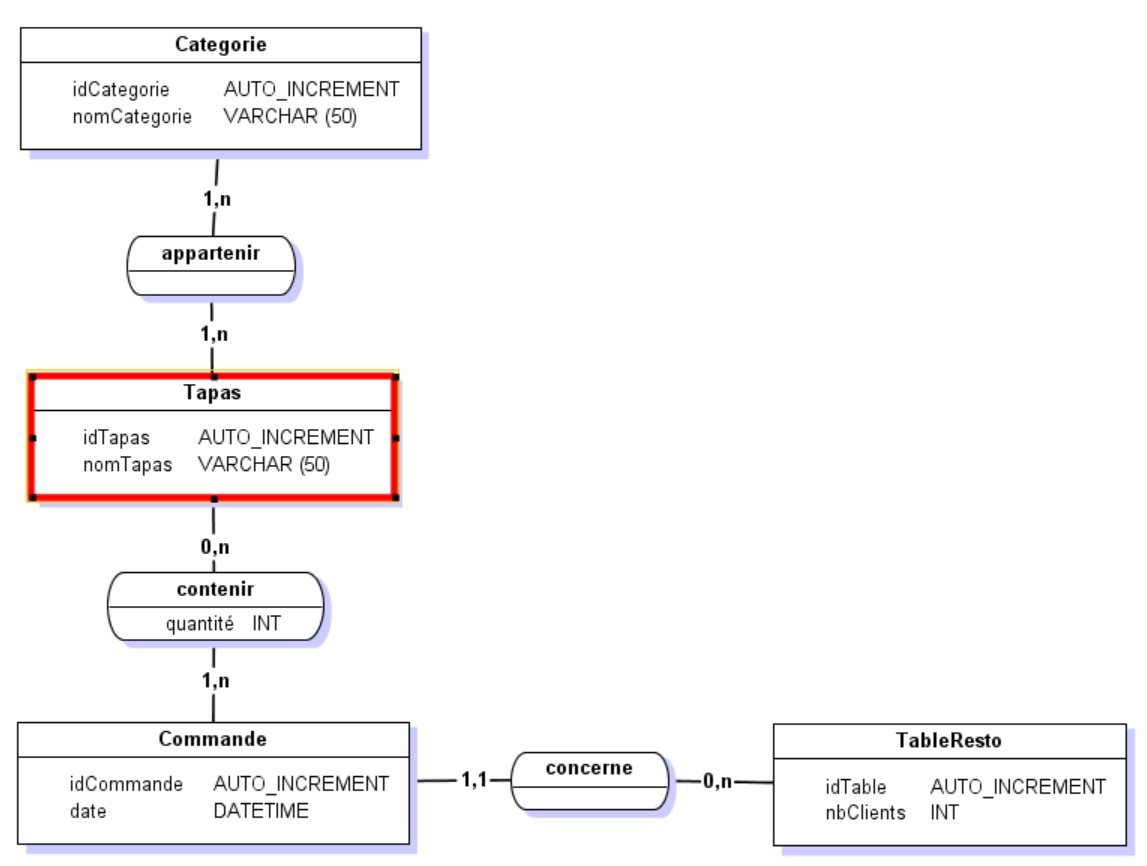
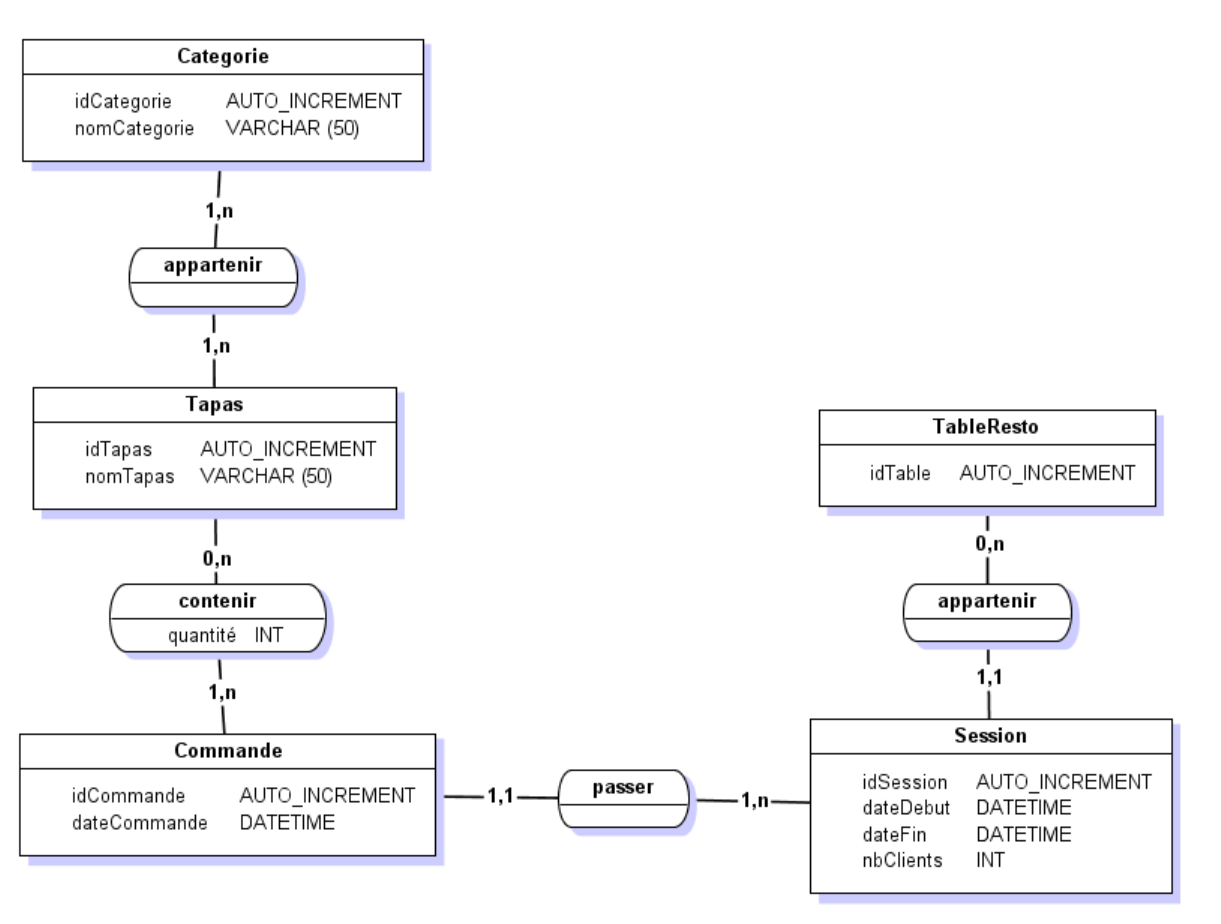
update DAO + modif MCD
ajout table Session

Changed region(s): [[0.0, 0.0312, 1.0, 0.9977]]

diff --git a/PHP/TP16-Tapas/src/DAO/CommandeDAO.java b/PHP/TP16-Tapas/src/DAO/CommandeDAO.java
@@ -1,0 +1,94 @@
+
+package DAO;
+
+import DTO.Commande;
+import java.sql.Connection;
+import java.sql.PreparedStatement;
+import java.sql.ResultSet;
+import java.sql.SQLException;
+import java.util.ArrayList;
+
+
+public class CommandeDAO 
+{
+    public static Commande findCommandeWithId(int idCommande)
+    {
+        Commande commande = null;
+        
+        try
+        {
+            Connection co = DatabaseConnecter.getConnexion();
+            PreparedStatement state = co.prepareStatement("SELECT * FROM Commande WHERE Commande.idCommande=?");
+            state.setInt(1, idCommande); 
+
+            ResultSet result = state.executeQuery();
+
+            if(result.next())
+            {
+                commande = new Commande();
+                commande.setIdCommande(result.getInt("idCommande"));
+                commande.setDateCommande(result.getDate("dateCommande"));
+                commande.setIdTable(result.getInt("idTable"));
+            }
+        }
+        catch (SQLException e)
+        {
+            e.printStackTrace();
+        }
+
+        return commande;
+    }
+    
+    
+    public static ArrayList<Commande> findAllCommandes()
+    {
+        ArrayList<Commande> listeCommandes = new ArrayList<Commande>();
+
+        try
+        {
+            Connection co = DatabaseConnecter.getConnexion();
+            PreparedStatement state = co.prepareStatement("SELECT idCommande FROM Commande");
+
+            ResultSet result = state.executeQuery();
+
+            while(result.next())
+            {
+                Commande commande = CommandeDAO.findCommandeWithId(result.getInt("idCommande"));
+                listeCommandes.add(commande);
+            }
+        }
+        catch (SQLException e)
+        {
+            e.printStackTrace();
+        }
+
+        return listeCommandes;
+    }
+    
+    
+    public static ArrayList<Commande> findAllCommandesWithTable(int idTable)
+    {
+        ArrayList<Commande> listeCommandes = new ArrayList<Commande>();
+
+        try
+        {
+            Connection co = DatabaseConnecter.getConnexion();
+            PreparedStatement state = co.prepareStatement("SELECT idCommande FROM Commande WHERE idTable=?");
+            state.setInt(1, idTable); //Gérer que sur la meme table les groupes de clients s'enchainent
+            
+            ResultSet result = state.executeQuery();
+
+            while(result.next())
+            {
+                Commande commande = CommandeDAO.findCommandeWithId(result.getInt("idCommande"));
+                listeCommandes.add(commande);
+            }
+        }
+        catch (SQLException e)
+        {
+            e.printStackTrace();
+        }
+
+        return listeCommandes;
+    }
+}

diff --git a/PHP/TP16-Tapas/src/DTO/Commande.java b/PHP/TP16-Tapas/src/DTO/Commande.java
@@ -2,11 +2,12 @@
 package DTO;
 
 import java.time.LocalDate;
+import java.util.Date;
 
 public class Commande 
 {
     private int _idCommande;
-    private LocalDate _dateCommande;
+    private Date _dateCommande;
     private int _idTable;
 
     public int getIdCommande() {
@@ -17,11 +18,11 @@ public class Commande
         this._idCommande = _idCommande;
     }
 
-    public LocalDate getDateCommande() {
+    public Date getDateCommande() {
         return _dateCommande;
     }
 
-    public void setDateCommande(LocalDate _dateCommande) {
+    public void setDateCommande(Date _dateCommande) {
         this._dateCommande = _dateCommande;
     }
 

diff --git a/PHP/TP16-Tapas/src/DAO/TapasDAO.java b/PHP/TP16-Tapas/src/DAO/TapasDAO.java
@@ -100,7 +100,7 @@ public class TapasDAO
         try
         {
             Connection co = DatabaseConnecter.getConnexion();
-            PreparedStatement state = co.prepareStatement("SELECT idTapas FROM Tapas INNER JOIN TapasCommande ON Tapas.idTapas=TapasCommande.idTapas WHERE TapasCategorie.idCategorie=?");
+            PreparedStatement state = co.prepareStatement("SELECT Tapas.idTapas FROM Tapas INNER JOIN TapasCommande ON Tapas.idTapas=TapasCommande.idTapas WHERE TapasCommande.idCommande=?");
             state.setInt(1, idCommande); 
 
             ResultSet result = state.executeQuery();
